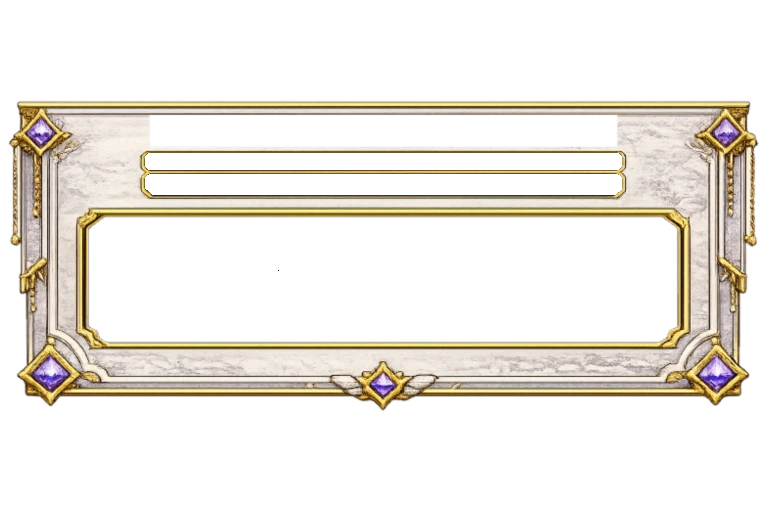
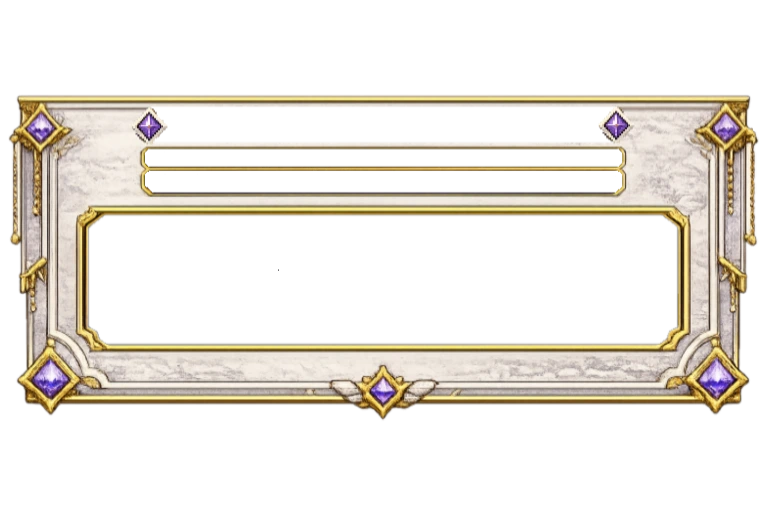
Swap in new UI frame artwork
Replace entity_UI2 / enemy_UI / topleft_UI with updated versions (entity frame
now has empty button boxes, no baked-in ASCEND/REINCARNATE), delete the old
single counter_UI, and add counter1 / counter2 (left/right counter bars). Update
the edit-mode UI-frame list accordingly.

Claude-Session: https://claude.ai/code/session_01WCCcc4AcErPCuFHKci9qPv

diff --git a/index.html b/index.html
@@ -12506,7 +12506,7 @@ document.getElementById('mm-auto').addEventListener('click',function(){
   ];
   var UI_FRAMES=[
     {key:'entity_UI2', w:520}, {key:'enemy_UI', w:420},
-    {key:'counter_UI', w:360}, {key:'topleft_UI', w:260}
+    {key:'topleft_UI', w:320}, {key:'counter1', w:220}, {key:'counter2', w:220}
   ];
   var items=[], sel=null;
 
